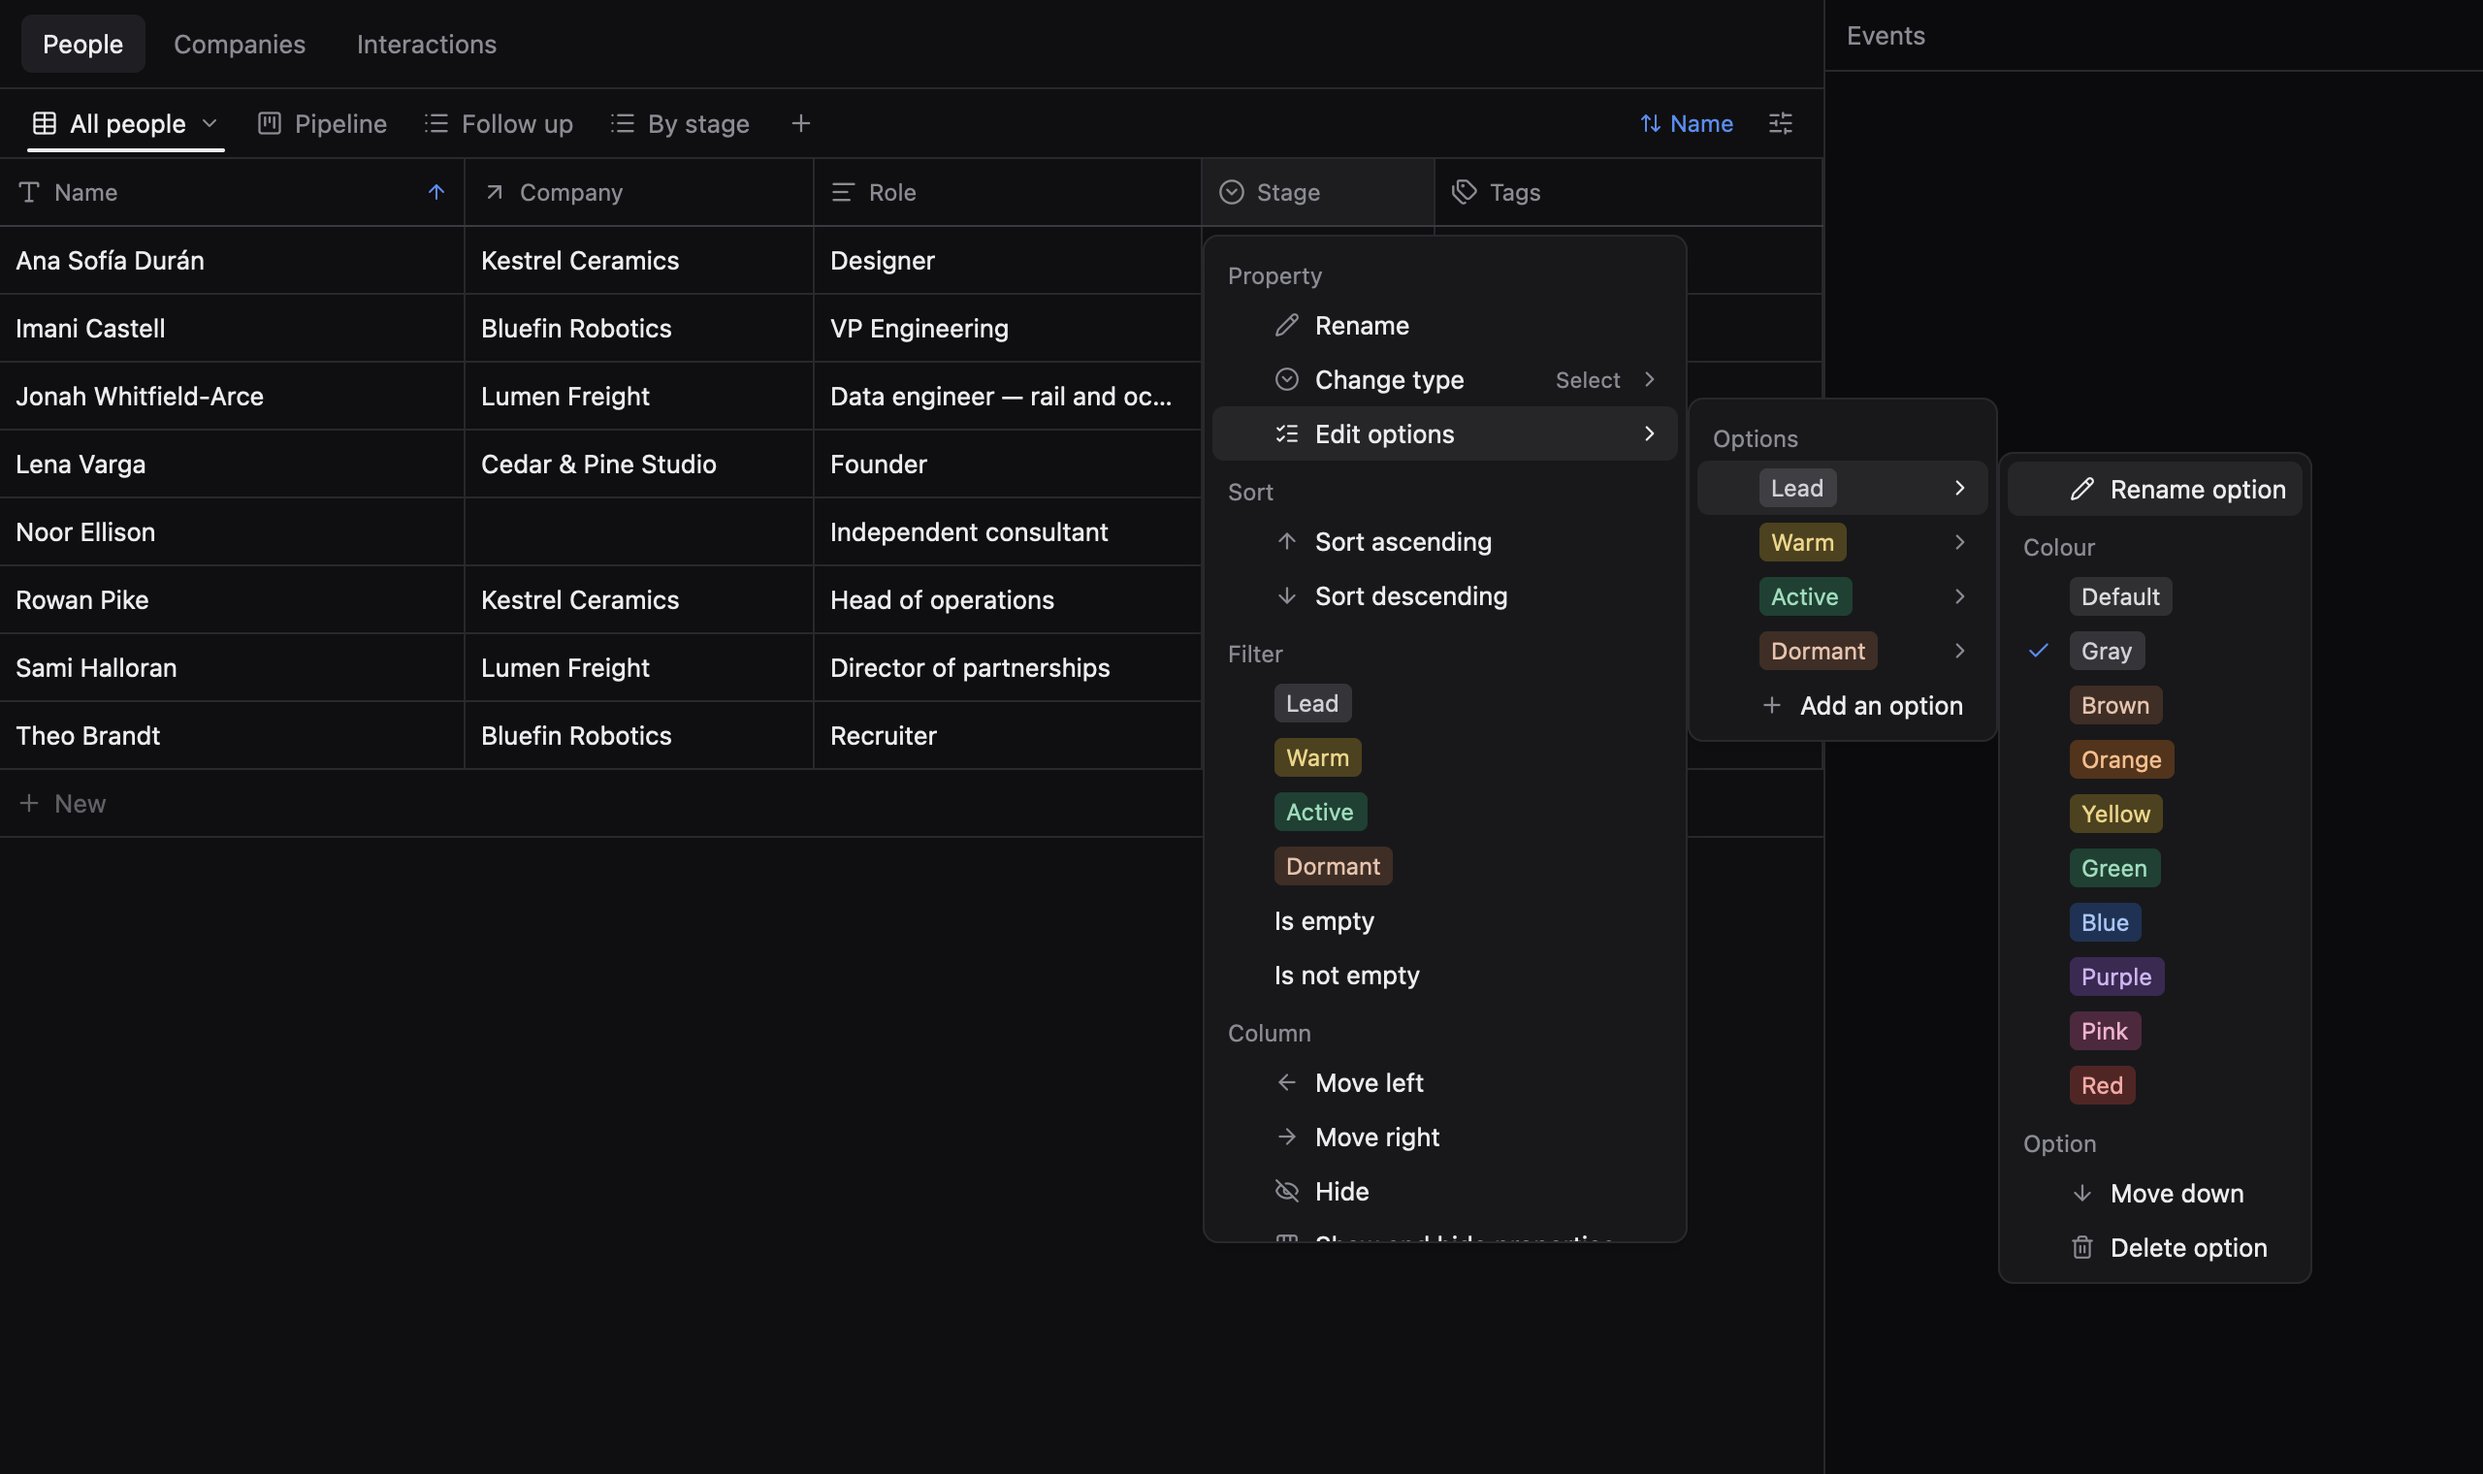
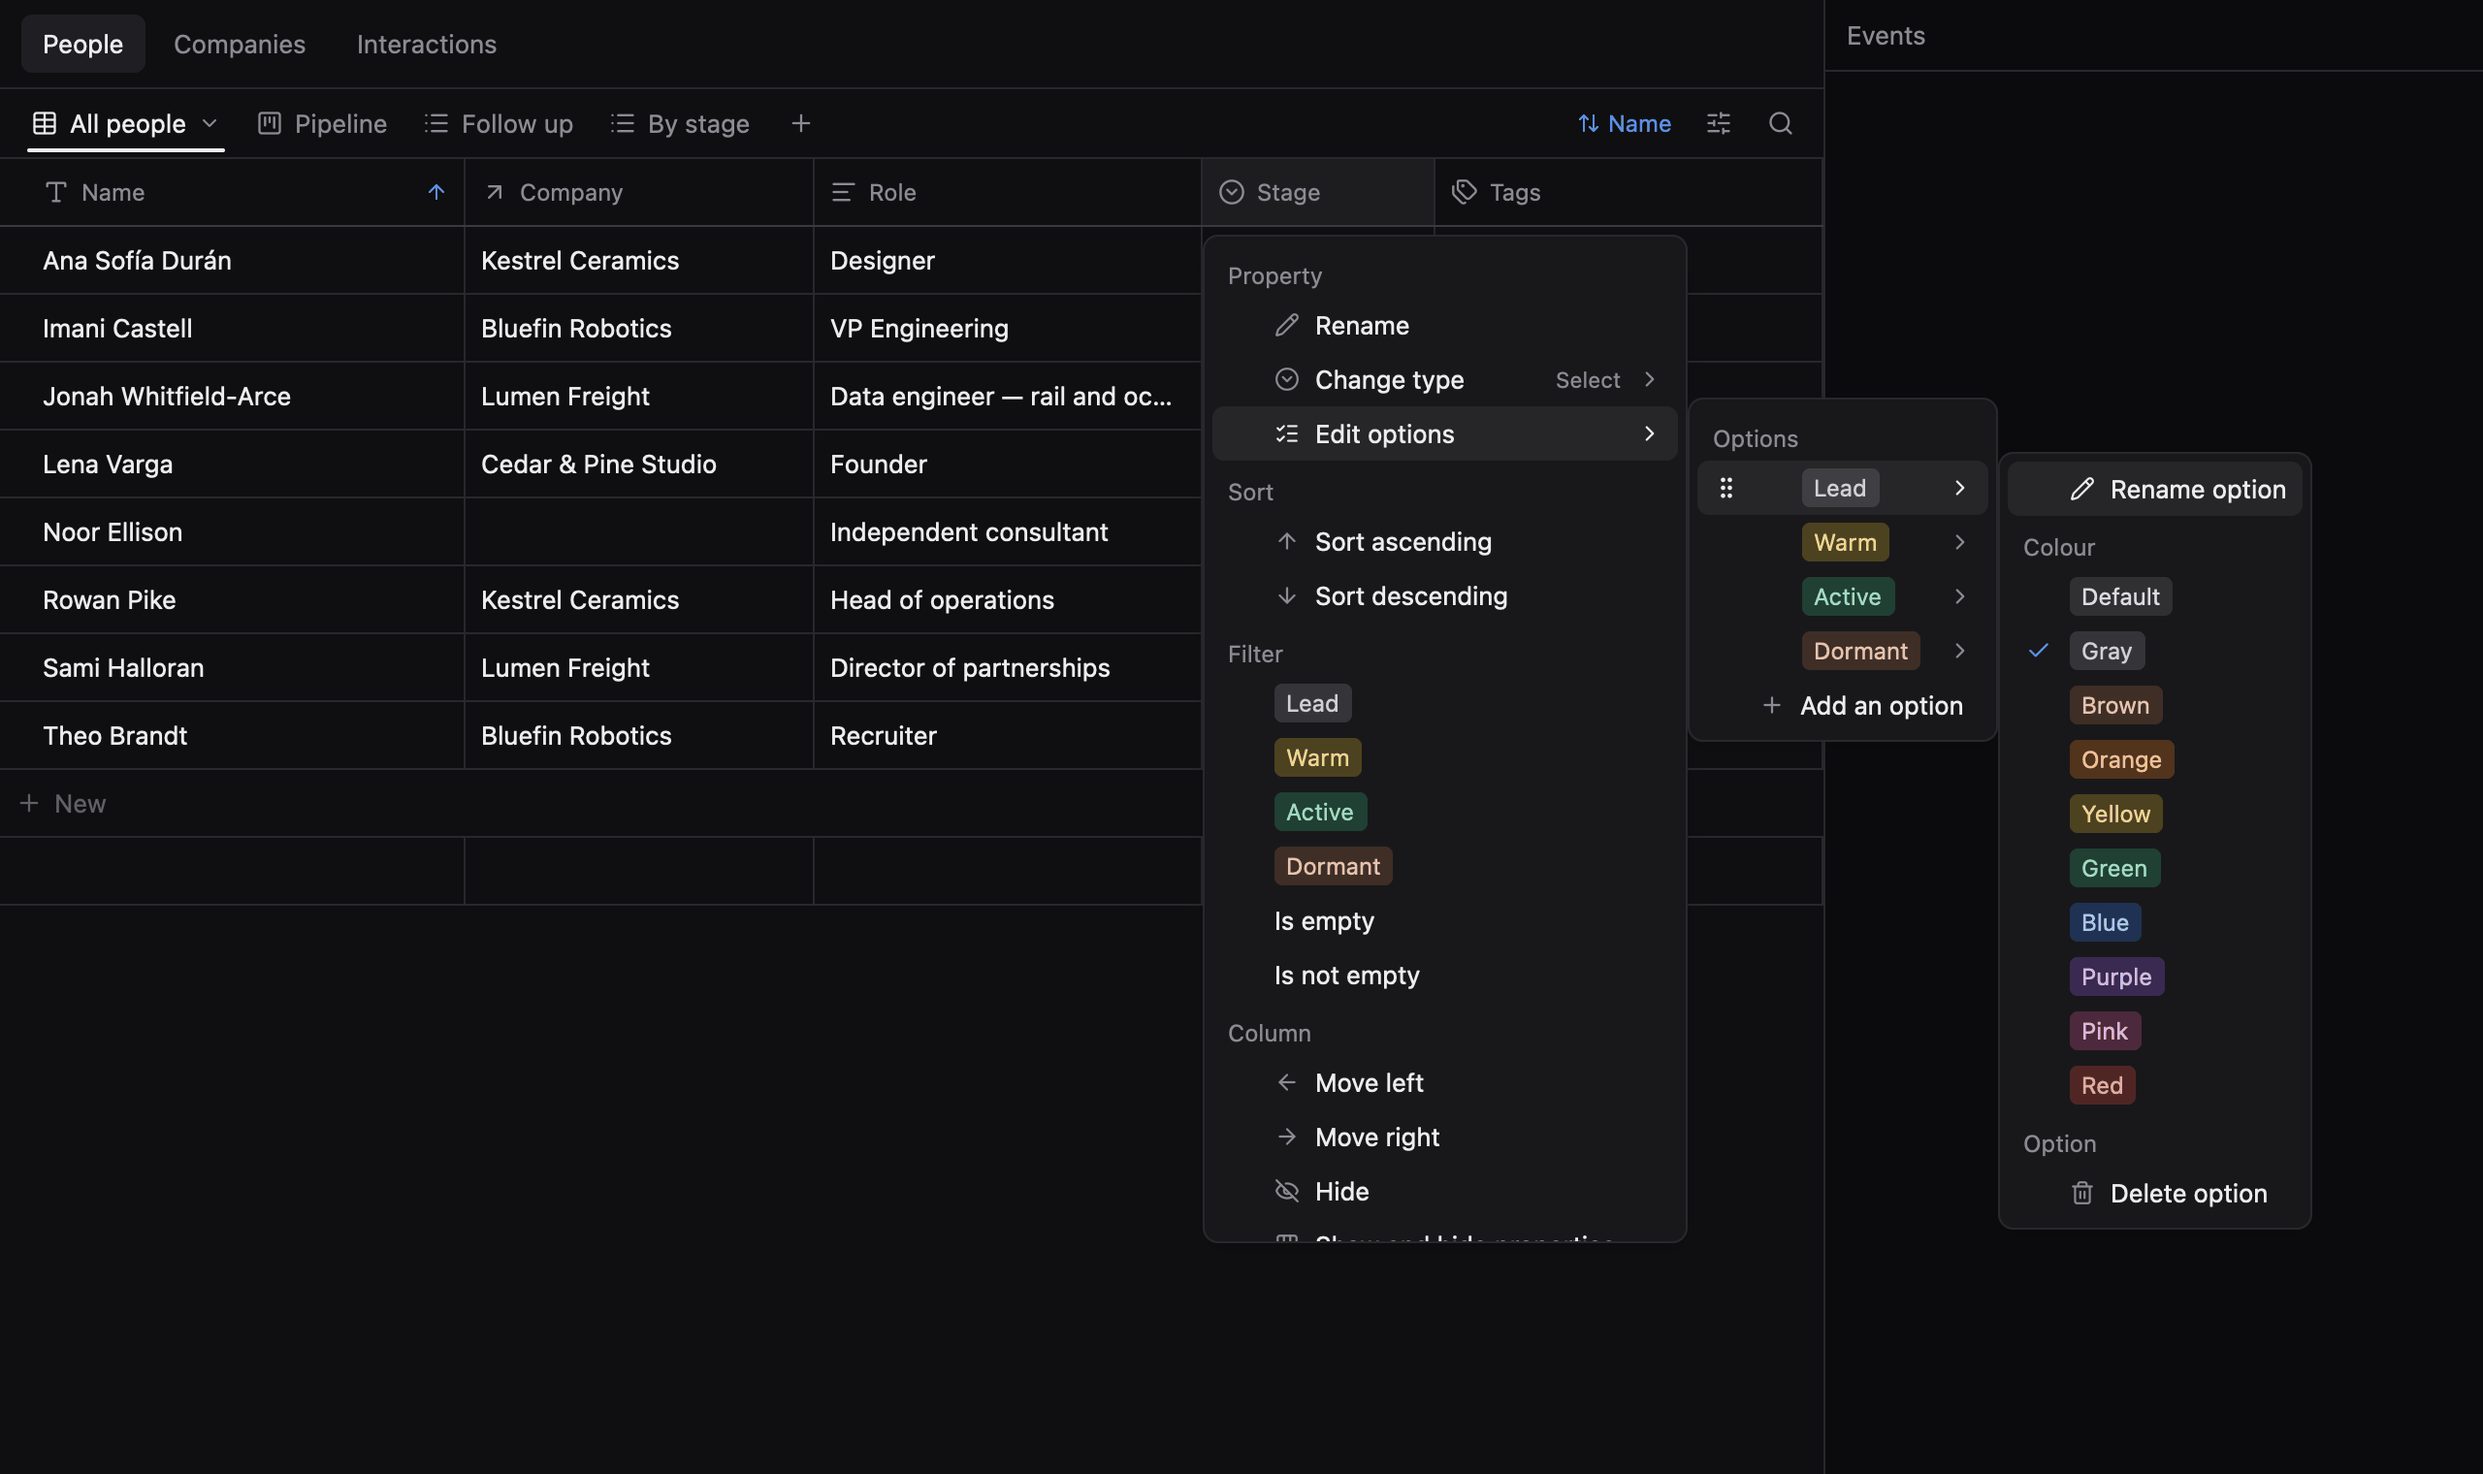
docs(tables): redraw the options and view-settings pictures without Move entries (#330)

diff --git a/gpui-tables/README.md b/gpui-tables/README.md
@@ -448,7 +448,7 @@ change is a batch of edits for the host ([Edits and events](#edits-and-events)),
 
 | | |
 |---|---|
-| ![The + menu: a new property's name typed over the fifteen types it can have](docs/table-columns.png) | ![Stage's column menu with its options open beside Edit options as their pills, and beside them the first option's submenu to rename, recolour, move or delete it](docs/table-options.png) |
+| ![The + menu: a new property's name typed over the fifteen types it can have](docs/table-columns.png) | ![Stage's column menu with its options open beside Edit options as their pills, and beside them the first option's submenu to rename, recolour or delete it, its grip showing it can be dragged](docs/table-options.png) |
 
 - **Adding.** The + after the last column (or Add a property in a column's menu) opens a field
   for the name over the types: every type but the title (gpui-core's `Picker`, its field naming
@@ -542,7 +542,7 @@ new docs, as a header's change is.
 
 | | |
 |---|---|
-| ![The bar's + menu: a new view's name typed over its three types, Board highlighted, under the +](docs/view-add.png) | ![The Pipeline board's menu under its tab, View settings open beside it (what it groups by, its card properties, its sort to remove), and beside that the card properties, shown then hidden](docs/view-settings.png) |
+| ![The bar's + menu: a new view's name typed over its three types, Board highlighted, under the +](docs/view-add.png) | ![The Pipeline board's menu under its tab, View settings open beside it (what it groups by, its card properties, its sort to remove), and beside that the card properties, shown (the highlighted one's grip to drag it) then hidden](docs/view-settings.png) |
 
 ```rust,ignore
 let table = cx.new(|cx| TableView::new(host, database, rows, cx).with_view_bar(true));
